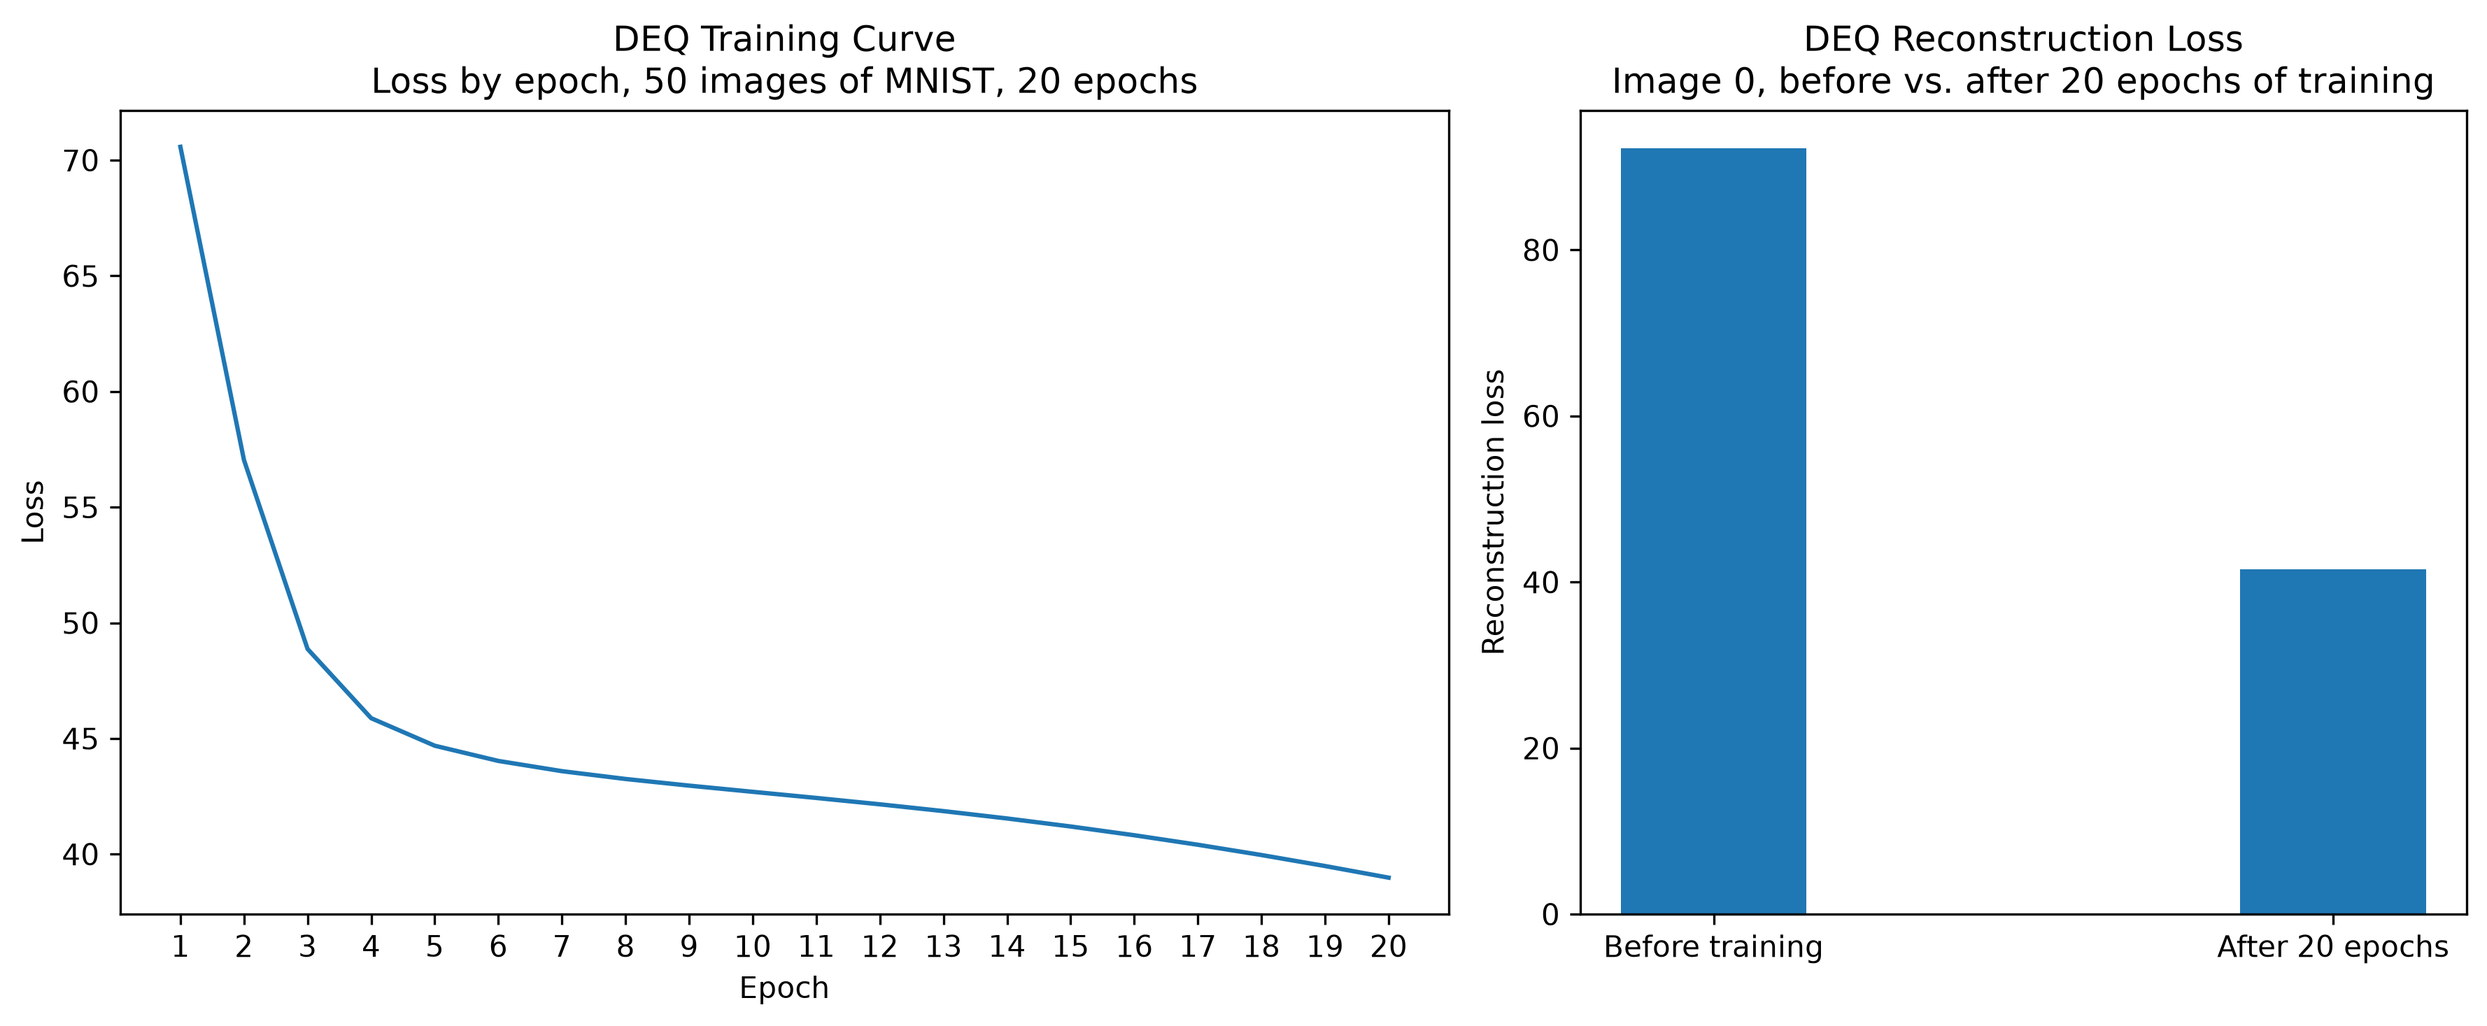
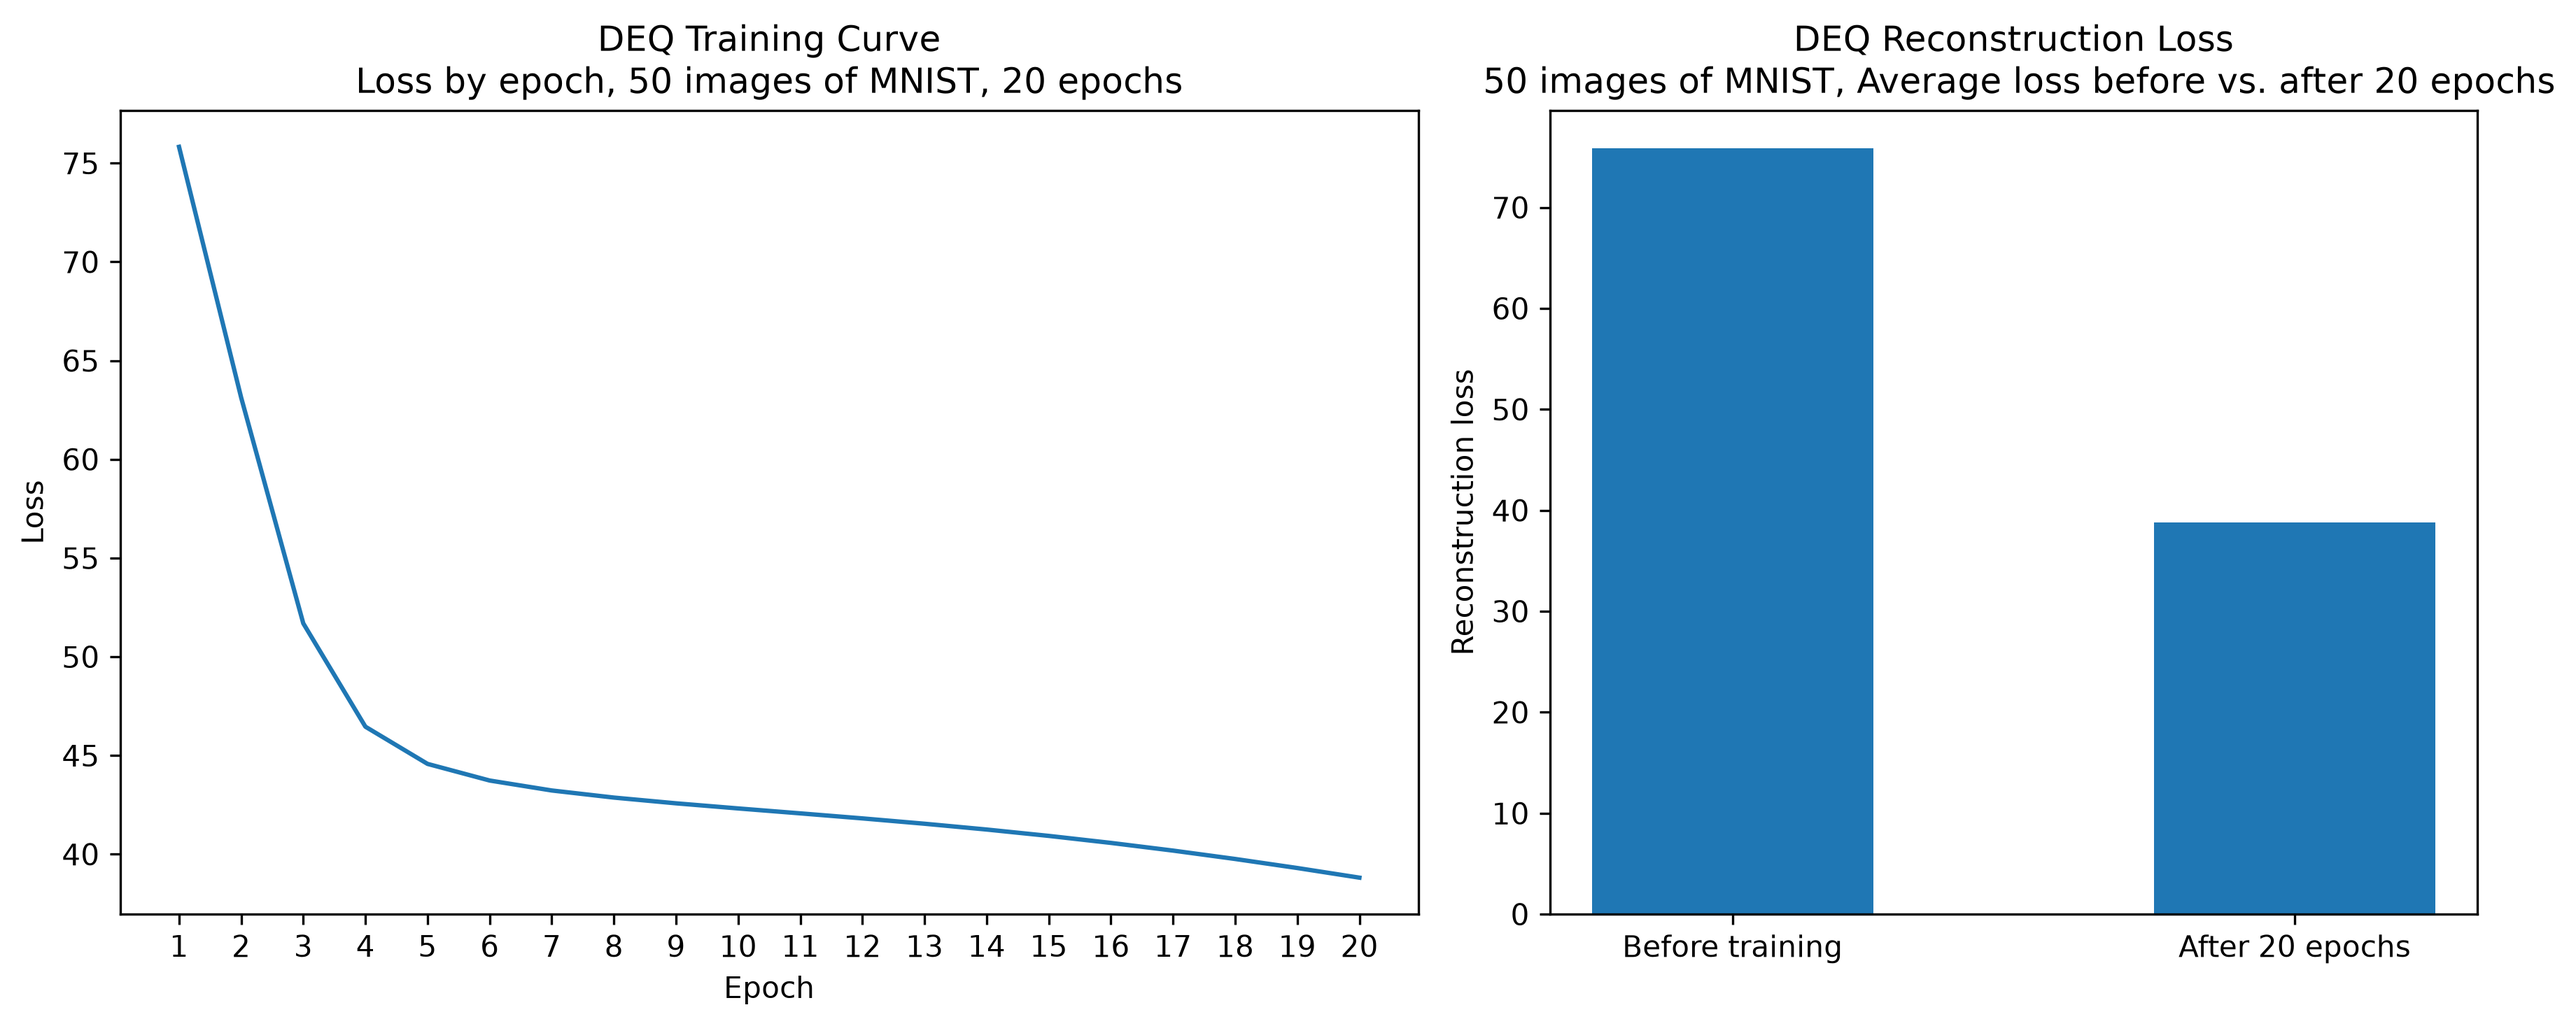
docs, tuple unpack

diff --git a/tutorials/ast/deq.py b/tutorials/ast/deq.py
@@ -1007,11 +1007,10 @@ EXPECTED = {'functions': {'tanh': {'params': [('a',
                 ('var', 'lr'),
                 ('var', 'images')]),
               98),
-             ('decl', 'loss_before', 'ℝ', ('index', 'losses', ('num', 0)), 99),
-             ('decl',
-              'loss_after',
-              'ℝ',
-              ('indexN', 'losses', [('index_item', ('neg', ('num', 1)))]),
-              100),
+             ('stmt_tuple_unpack',
+              [('loss_before', 'ℝ'), ('loss_after', 'ℝ')],
+              ('expr_list',
+               [('index', 'losses', ('num', 0)),
+                ('indexN', 'losses', [('index_item', ('neg', ('num', 1)))])])),
              ('expr', ('call', 'print', [('var', 'loss_before')]), 0),
              ('expr', ('call', 'print', [('var', 'loss_after')]), 0)]}

diff --git a/tutorials/torch_code/deq.py b/tutorials/torch_code/deq.py
@@ -211,7 +211,6 @@ X = rand_array(10, 784, 1.0)
 epochs = 1
 lr = 0.001
 losses = deq.train(X, epochs, lr, images)
-loss_before = losses[int(0)]
-loss_after = losses[int((-1))]
+loss_before, loss_after = losses[int(0)], losses[int((-1))]
 print(print(loss_before))
 print(print(loss_after))

diff --git a/docs/tutorials/deq.rst b/docs/tutorials/deq.rst
@@ -20,7 +20,7 @@ A conventional deep network computes a sequence of hidden states, one per layer:
 .. math::
     h_1 = f_1(h_0, x), \quad h_2 = f_2(h_1, x), \quad \ldots, \quad h_T = f_T(h_{T-1}, x)
 
-Each layer :math:`f_t` usually has its own parameters, and the memory needed for training grows with the number of layers :math:`T`, because every intermediate :math:`h_t` must be stroed for the backward pass during gradient backpropagation.
+Each layer :math:`f_t` usually has its own parameters, and the memory needed for training grows with the number of layers :math:`T`, because every intermediate :math:`h_t` must be stored for the backward pass during gradient backpropagation.
 
 A Deep Equilibrium Model is built from two ideas that work together.
 The first idea is to tie the weights, so every layer is the same function :math:`f(\cdot, x, \theta)`.
@@ -46,7 +46,7 @@ Setup and Notation
 
 We use the following notation throughout the tutorial.
 
-The input is denoted by :math:`x \in \mathbb{R}^{d}`. It is the data the network is given, :math:`d` denotes the dimensionality of the data. 
+The input is denoted by :math:`x \in \mathbb{R}^{d}`. It is the data the network is given; :math:`d` denotes the dimensionality of the data. 
 The hidden state of the model is denoted by :math:`h \in \mathbb{R}^{n}`. It is updated to learn a better representation of the data .
 The parameters of the model :math:`\theta` collect every learnable weight and bias in the layer. In our DEQ model :math:`\theta = \{W, U, b, W_o, b_o\}`.
 The layer itself is a function :math:`f: \mathbb{R}^{n} \times \mathbb{R}^{d} \to \mathbb{R}^{n}`, which takes the current hidden state and the (fixed) input and returns the next hidden state.
@@ -91,7 +91,7 @@ In Physika, the layer is written exactly as the equation reads:
            h2: ℝ[1,n] = linear(h1, W2, b2)
            return h2
 
-    For additional details, please read the Physika implementation of a `fully connected network <https://physika.readthedocs.io/en/latest/tutorials/linear_layers.html>`__.
+   For additional details, please read the Physika implementation of a `fully connected network <https://physika.readthedocs.io/en/latest/tutorials/linear_layers.html>`__.
 
 Fixed Points and the Banach Fixed-Point Theorem
 ^^^^^^^^^^^^^^^^^^^^^^^^^^^^^^^^^^^^^^^^^^^^^^^
@@ -175,7 +175,7 @@ In Physika, the residual is implemented as shown below, where ``h_star`` denotes
     g(h_k - \delta) \approx g(h_k) - J\,\delta,
 
 where :math:`J = \partial g / \partial h` is the **residual Jacobian**, the matrix of partial derivatives of :math:`g` with respect to :math:`h`.
-Newton's method picks the step :math:`\delta` that makes this linear approximation zero; that is it solves
+Newton's method picks the step :math:`\delta` that makes this linear approximation zero; that is, it solves
 
 .. math::
     J\,\delta = g(h_k), \qquad h_{k+1} = h_k - \delta.
@@ -419,7 +419,7 @@ So when training the model, the entire training looks like the snippet below; sh
 
 Plotting Graphs
 -----------------------------------
-Once training is done, it is useful to visualize metrics such as the loss for each epoch, and the loss before and after training, as it tells us if the model is training properly. 
+Once training is done, it is useful to visualize metrics such as the loss for each epoch and the loss before and after training, as it tells us if the model is training properly. 
 
 .. note::
    ``plot_deq_losses`` is not a built-in Physika function. To use it, add the following helper to ``physika/runtime.py``:
@@ -457,7 +457,7 @@ Full Code
 ---------
 
 Here we load 50 images of MNIST, train the DEQ for 20 epochs, and plot the training curve and the reconstruction loss before and after training.
-We keep the learning rate (``lr``) at ``0.001``, the number of solver steps at (``solver_steps``) ``3``, and the hidden size at ``8`` as the hyperparameters. 
+We keep the learning rate (``lr``) at ``0.001``, the number of solver steps (``solver_steps``) at ``3``, and the hidden size (``n``) at ``8`` as the hyperparameters. 
 The ``rand_array`` helper is used to initialize the learnable parameters with small random values.
 The first line ``physika.seed(0)`` ensures that training runs can be reproduced exactly, without variations across runs. 
 More details on this can be found in the `Sampling documentation <https://physika.readthedocs.io/en/latest/elf.html#random-sampling>`__.
@@ -518,7 +518,7 @@ More details on this can be found in the `Sampling documentation <https://physik
         def loss(target: ℝ[1,d], x_hat: ℝ[1,d]): ℝ:
             err: ℝ[1,d] = target - x_hat
             return sum_2d(err * err, 1, d)
-        def train(X: ℝ[10,784], epochs: ℕ, lr: ℝ, images: ℝ): ℝ[epochs]:
+        def train(X: ℝ[50,784], epochs: ℕ, lr: ℝ, images: ℝ): ℝ[epochs]:
             losses: ℝ[epochs] = for i:ℕ(epochs) -> i*0
             for epoch:ℕ(epochs):
                 total = 0
@@ -555,16 +555,10 @@ More details on this can be found in the `Sampling documentation <https://physik
     # add load_mnist python helper to physika/runtime.py to run on MNIST data
     X: ℝ[50, 784] = load_mnist(images) 
 
-    x0: ℝ[1,784] = [X[0]]
-    recon_before: ℝ[1,784] = deq(x0)
-    loss_before: ℝ = deq.loss(x0, recon_before)
-    print(loss_before)
-
     epochs: ℕ = 20
     lr: ℝ = 0.001
     losses: ℝ[epochs] = deq.train(X, epochs, lr, images)
-    loss_before: ℝ = losses[0]
-    loss_after: ℝ = losses[-1]
+    loss_before: ℝ, loss_after: ℝ = losses[0], losses[-1]
     print(loss_before)
     print(loss_after)
     # add plot_deq_losses python helper to physika/runtime.py to create and save plots
@@ -574,7 +568,7 @@ More details on this can be found in the `Sampling documentation <https://physik
 Training plots
 --------------
 
-After running the code above (~30 minutes), you should see the average reconstruction loss decrease over epochs as the model learns to encode and decode the digits through its equilibrium state.
+After running the code above (~10 minutes), you should see the average reconstruction loss decrease over epochs as the model learns to encode and decode the digits through its equilibrium state.
 
 .. figure:: /_static/tutorial_files/deq/deq_train_plot.png
    :alt:
